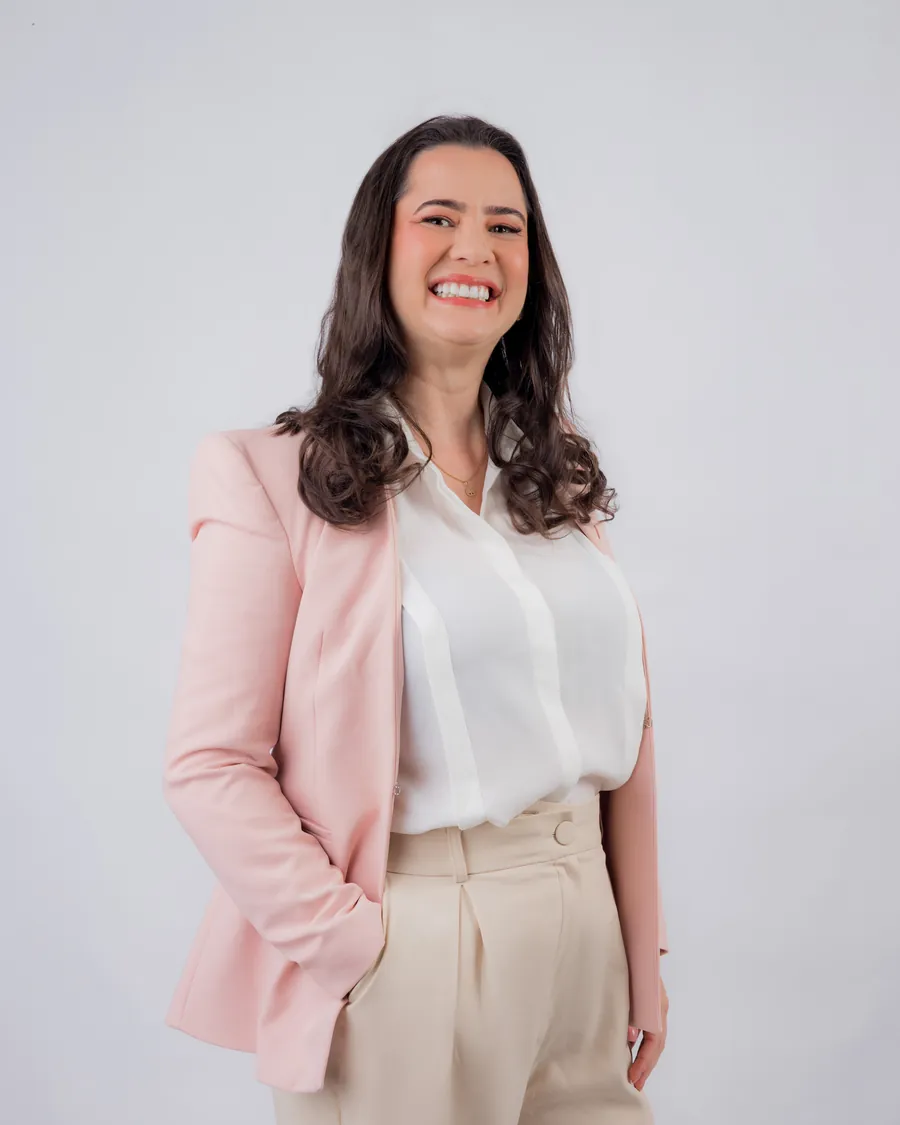
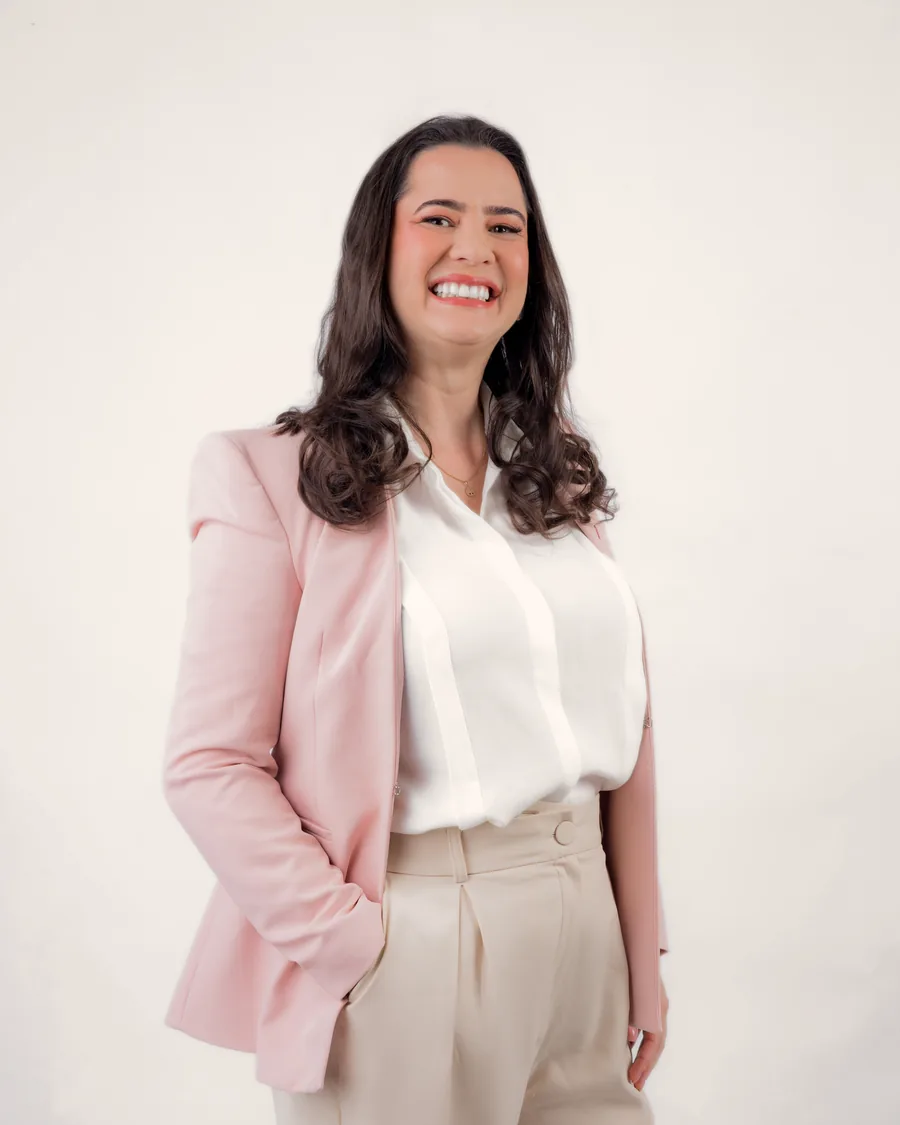
Refaz a foto do topo no estilo da LP da Nutri Anna
Claude-Session: https://claude.ai/code/session_013ZBAMFUUhj3y7DouA4XRGk

diff --git a/styles.css b/styles.css
@@ -112,23 +112,34 @@ body.menu-aberto { overflow: hidden; }
 .hero h1 { font-size: clamp(2.3rem, 7.6vw, 4.1rem); }
 .hero h1 em { display: block; }
 .lead { font-size: 1.06rem; max-width: 560px; }
-.hero-acoes { display: flex; flex-wrap: wrap; align-items: center; gap: 12px 22px; margin: 26px 0 30px; }
+.hero-acoes { display: flex; flex-wrap: wrap; align-items: center; gap: 12px 22px; margin: 26px 0 8px; }
 .hero-acoes .botao { width: 100%; }
-.numeros { list-style: none; margin: 0; padding: 0; display: grid; grid-template-columns: 1fr 1fr; gap: 14px 18px; }
-.numeros li { display: grid; padding-left: 14px; border-left: 3px solid var(--rosa); }
-.numeros li:last-child { grid-column: 1 / -1; }
-.numeros strong { font-family: var(--fonte-titulo); font-size: 1.5rem; font-weight: 600; color: var(--verde); line-height: 1.15; font-variant-numeric: tabular-nums; }
-.numeros li { transition: transform .3s var(--ease), border-color .3s var(--ease); }
-@media (hover: hover) { .numeros li:hover { transform: translateY(-3px); border-color: var(--rosa-forte); } }
-.numeros span { font-size: .85rem; }
-.hero-foto { position: relative; width: min(100%, 440px); margin-inline: auto; }
-.hero-moldura { border-radius: 240px 240px var(--raio) var(--raio); overflow: hidden; background: #e9e9e9; box-shadow: var(--sombra); aspect-ratio: 4 / 5; }
-.hero-moldura img { width: 100%; height: 100%; object-fit: cover; object-position: center 20%; }
-.cartao-credencial { position: absolute; left: -6px; bottom: 26px; display: grid; padding: 12px 18px; border-radius: var(--raio-p); background: #fffffff2; box-shadow: var(--sombra-p); }
-.cartao-credencial strong { font-family: var(--fonte-titulo); color: var(--verde); font-size: 1.02rem; }
-.cartao-credencial span { font-size: .78rem; }
-.cartao-flutuante { position: absolute; right: -6px; top: 22%; display: flex; align-items: center; gap: 10px; padding: 10px 14px; border-radius: var(--raio-p); background: var(--verde); color: #fff; font-size: .78rem; font-weight: 600; line-height: 1.3; box-shadow: var(--sombra-p); }
-.cartao-flutuante svg { width: 26px; height: 26px; padding: 5px; border-radius: 50%; background: var(--rosa-forte); }
+/* Foto do topo no estilo da LP da Nutri Anna: arco largo, cartão do nome à
+   esquerda e dois números empilhados à direita, sobre a foto. */
+.hero-foto { position: relative; width: min(100%, 470px); margin-inline: auto; }
+.hero-moldura { border-radius: 999px 999px 28px 28px; overflow: hidden; aspect-ratio: 4 / 5;
+    background: #F4EDE7; box-shadow: 0 30px 70px -30px #0F3D3A55; }
+.hero-moldura img { width: 100%; height: 100%; object-fit: cover; object-position: center 12%; animation: respirar 9s ease-in-out infinite; }
+@keyframes respirar { 50% { transform: scale(1.025); } }
+.cartao-credencial { position: absolute; left: -10px; top: 47%; display: grid; padding: 14px 20px; border-radius: 16px; background: #ffffffe8; backdrop-filter: blur(8px); -webkit-backdrop-filter: blur(8px); box-shadow: 0 18px 40px -18px #0F3D3A40; }
+.cartao-credencial strong { font-family: var(--fonte-titulo); color: var(--verde); font-size: 1.12rem; line-height: 1.2; }
+.cartao-credencial span { font-size: .8rem; }
+.hero-numeros { position: absolute; right: -10px; bottom: 30px; display: grid; gap: 8px; }
+.hero-numeros aside { display: grid; min-width: 168px; padding: 12px 18px; border-radius: 16px; background: #fffffff2; box-shadow: 0 18px 40px -18px #0F3D3A40; transition: transform .3s var(--ease); }
+.hero-numeros strong { font-size: 1.6rem; font-weight: 700; color: var(--verde); line-height: 1.1; font-variant-numeric: tabular-nums; }
+.hero-numeros small { margin-top: 4px; font-size: .64rem; font-weight: 600; letter-spacing: .1em; text-transform: uppercase; color: var(--texto); }
+@media (hover: hover) { .hero-numeros aside:hover { transform: translateY(-3px); } }
+/* Celular: o cartão do nome fica no ombro e os números lado a lado, na base da foto. */
+@media (max-width: 599px) {
+    .hero-foto { margin-bottom: 34px; }
+    .cartao-credencial { top: 40%; left: -8px; padding: 10px 14px; }
+    .cartao-credencial strong { font-size: 1rem; }
+    .cartao-credencial span { font-size: .72rem; }
+    .hero-numeros { left: 10px; right: 10px; bottom: -30px; grid-template-columns: 1fr 1fr; }
+    .hero-numeros aside { min-width: 0; padding: 10px 14px; }
+    .hero-numeros strong { font-size: 1.4rem; }
+    .hero-numeros small { font-size: .58rem; letter-spacing: .06em; }
+}
 
 .faixa { list-style: none; margin: 40px 0 0; padding: 22px; display: grid; gap: 18px; border-radius: var(--raio) var(--raio) 0 0; background: var(--verde); color: #fff; position: relative; z-index: 2; }
 .faixa li { display: flex; align-items: center; gap: 14px; }
@@ -292,8 +303,6 @@ body.sem-pendencias #avaliacoes { display: none; }
 @media (min-width: 600px) {
     :root { --gutter: 28px; }
     .hero-acoes .botao { width: auto; }
-    .numeros { grid-template-columns: repeat(3, auto); justify-content: start; gap: 18px 30px; }
-    .numeros li:last-child { grid-column: auto; }
     .faixa { grid-template-columns: 1fr 1fr; padding: 26px 28px; }
     .situacoes { grid-template-columns: 1fr 1fr; }
     .etapas { grid-template-columns: 1fr 1fr; }
@@ -318,9 +327,11 @@ body.sem-pendencias #avaliacoes { display: none; }
     .topo-linha .botao { margin-left: 6px; }
     .hero { padding-top: 56px; }
     .hero-grade { grid-template-columns: 1.1fr .9fr; gap: 60px; }
-    .hero-foto { margin-right: 20px; }
-    .cartao-credencial { left: -40px; }
-    .cartao-flutuante { right: -30px; }
+    .hero-foto { width: min(100%, 500px); margin-right: 40px; }
+    .cartao-credencial { left: -70px; top: 26%; }
+    .hero-numeros { right: -50px; }
+    .hero-numeros aside { min-width: 200px; padding: 14px 20px; }
+    .hero-numeros strong { font-size: 1.8rem; }
     .faixa { grid-template-columns: repeat(4, 1fr); margin-top: 56px; padding: 28px 30px; }
     .faixa li + li { border-left: 1px solid #ffffff22; padding-left: 20px; }
     .secao { padding: 104px 0; }
@@ -336,4 +347,5 @@ body.sem-pendencias #avaliacoes { display: none; }
     html { scroll-behavior: auto; }
     *, *::before, *::after { transition-duration: .01ms !important; animation-duration: .01ms !important; }
     .js .revelar { opacity: 1; transform: none; }
+    .hero-moldura img { animation: none; }
 }

diff --git a/index.html b/index.html
@@ -26,7 +26,7 @@
     <link rel="preconnect" href="https://fonts.gstatic.com" crossorigin>
     <link href="https://fonts.googleapis.com/css2?family=Fraunces:opsz,wght@9..144,500;9..144,600&family=Plus+Jakarta+Sans:wght@400;500;600;700&display=swap" rel="stylesheet">
     <link rel="preload" as="image" href="assets/profissional/dra-nayane-topo-900.webp" imagesrcset="assets/profissional/dra-nayane-topo-560.webp 560w, assets/profissional/dra-nayane-topo-900.webp 900w" imagesizes="(min-width: 1024px) 460px, 86vw">
-    <link rel="stylesheet" href="styles.css?v=20261102-03">
+    <link rel="stylesheet" href="styles.css?v=20261103-01">
 </head>
 <body>
 
@@ -102,11 +102,6 @@
                     <a class="botao" href="#" data-wa data-wa-origin="hero"><svg aria-hidden="true"><use href="#i-whatsapp"/></svg>Agendar avaliação pelo WhatsApp</a>
                     <a class="link-seta" href="#aparelhos">Ver os tipos de aparelho <svg aria-hidden="true"><use href="#i-arrow"/></svg></a>
                 </div>
-                <ul class="numeros" aria-label="Destaques">
-                    <li><strong><span data-contar="15" data-inicio="0">15</span> anos</strong><span>de Odontologia</span></li>
-                    <li><strong><span data-contar="10" data-inicio="0">10</span> anos</strong><span>dedicados à Ortodontia</span></li>
-                    <li><strong>SulAmérica e Amil</strong><span>e atendimento particular</span></li>
-                </ul>
             </div>
             <div class="hero-foto">
                 <div class="hero-moldura">
@@ -116,9 +111,9 @@
                     <strong>Dra. Nayane Moreno</strong>
                     <span>Cirurgiã-Dentista · CRO-SE 2301</span>
                 </div>
-                <div class="cartao-flutuante" aria-hidden="true">
-                    <svg><use href="#i-check"/></svg>
-                    <span>Avaliação com fotos<br>e radiografias</span>
+                <div class="hero-numeros">
+                    <aside><strong data-contar="15" data-inicio="0">15</strong><small>Anos de Odontologia</small></aside>
+                    <aside><strong data-contar="10" data-inicio="0">10</strong><small>Anos de Ortodontia</small></aside>
                 </div>
             </div>
         </div>
@@ -450,6 +445,6 @@
 <!-- Só na prévia: mostra ou esconde os marcadores de pendência para apresentar à cliente. -->
 <button class="previa-alternar" type="button" aria-pressed="true">Prévia · <span>ocultar pendências</span></button>
 
-<script src="script.js?v=20261102-03" defer></script>
+<script src="script.js?v=20261103-01" defer></script>
 </body>
 </html>

diff --git a/script.js b/script.js
@@ -151,7 +151,7 @@
         contadores.forEach(el => obsNum.observe(el));
     }
     if (window.matchMedia("(hover: hover)").matches) {
-        contadores.forEach(el => el.closest("li").addEventListener("mouseenter", () => contar(el)));
+        contadores.forEach(el => el.closest("aside, li").addEventListener("mouseenter", () => contar(el)));
     }
 
     const ano = document.querySelector("[data-ano]");
